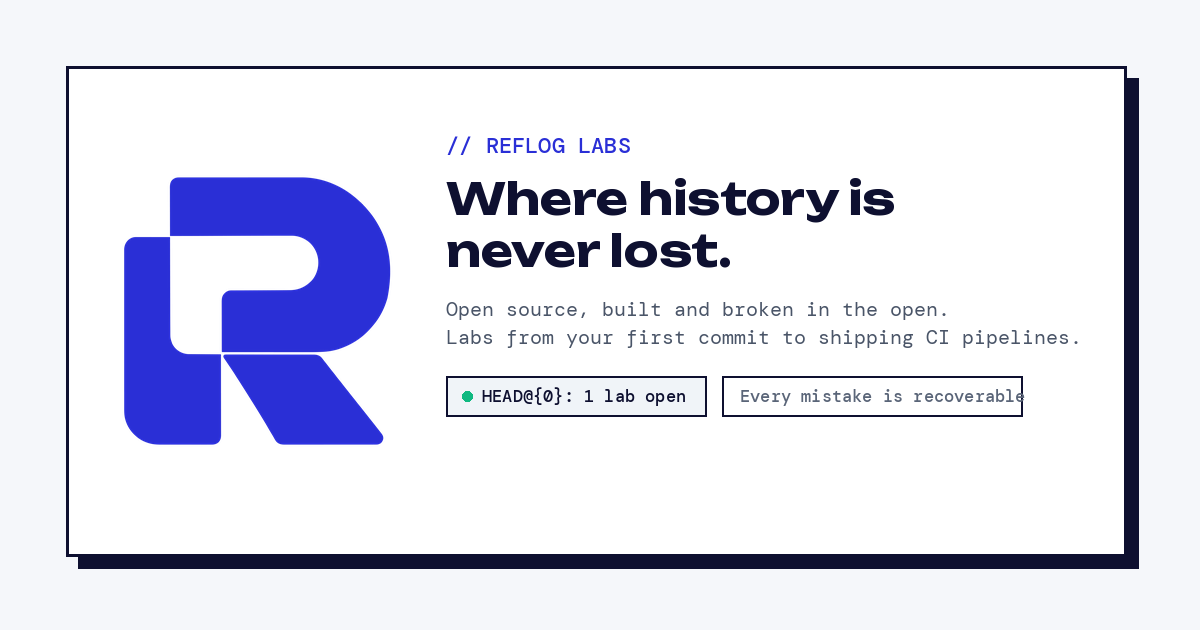
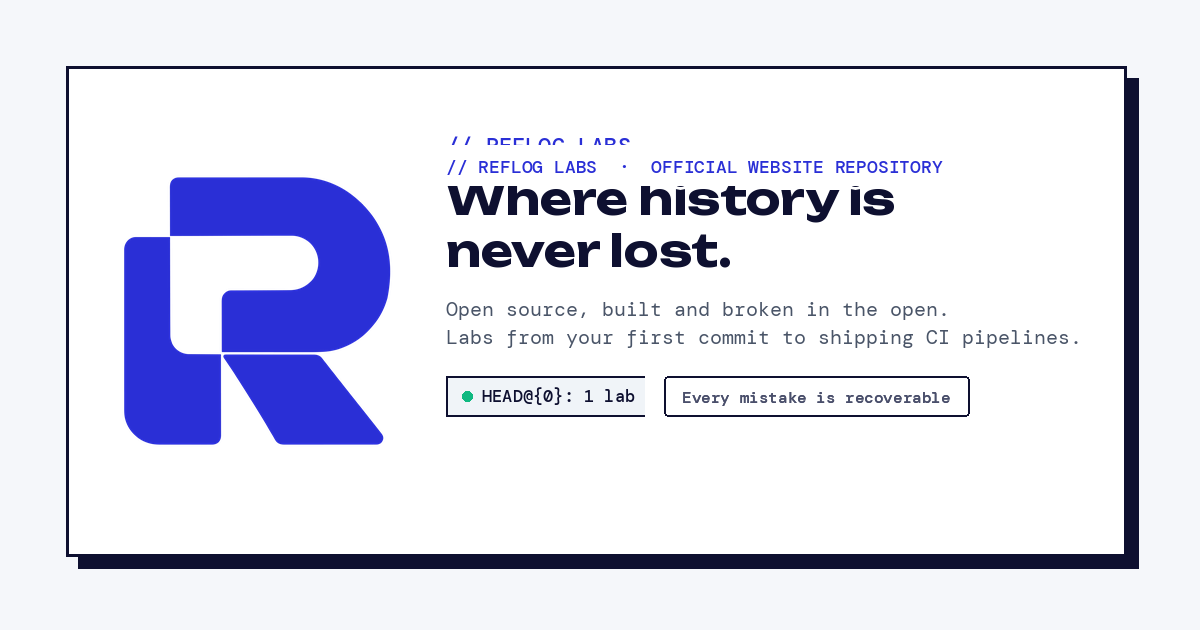
docs: remove redundant top title, fix og pill padding and label, and add rich visual interface previews

Changed region(s): [[0.5242, 0.6032, 0.8633, 0.6635], [0.5242, 0.2413, 0.8017, 0.3016], [0.37, 0.2111, 0.5242, 0.3016]]

diff --git a/README.md b/README.md
@@ -1,12 +1,25 @@
-# Reflog Labs Website
-
 <div align="center">
-  <img src="og.png" alt="Reflog Labs Platform Preview" width="100%" style="border-radius: 8px;">
+  <img src="og.png" alt="Reflog Labs Official Website Repository" width="100%">
 </div>
 
 <br>
 
-The production front-end repository powering [refloglabs.github.io](https://refloglabs.github.io), the curriculum hub for Reflog Labs.
+The production front-end repository powering [refloglabs.github.io](https://refloglabs.github.io), the interactive curriculum hub for Reflog Labs.
+
+---
+
+## Visual Preview
+
+<div align="center">
+
+<picture>
+  <source media="(prefers-color-scheme: dark)" srcset="assets/preview-hero-dark.png">
+  <img src="assets/preview-hero-light.png" alt="Reflog Labs Platform Interface" width="100%">
+</picture>
+
+</div>
+
+<br>
 
 ---
 
@@ -36,6 +49,22 @@ Reflog Labs teaches Git mechanics and production engineering workflows through s
 
 ---
 
+## Interactive Curriculum and Terminal Experience
+
+<div align="center">
+  <img src="assets/preview-curriculum.png" alt="Dynamic Curriculum Cards" width="100%">
+</div>
+
+<br>
+
+<div align="center">
+  <img src="assets/preview-terminal.png" alt="Interactive Recovery Terminal" width="100%">
+</div>
+
+<br>
+
+---
+
 ## Design System Tokens
 
 | Semantic Token | Light Mode | Dark Mode | Usage |
@@ -58,7 +87,11 @@ refloglabs.github.io/
 |   \-- workflows/
 |       \-- deploy.yml       # Production GitHub Pages deployment pipeline
 |-- assets/
-|   \-- logo.svg             # Canonical vector brand mark
+|   |-- logo.svg             # Canonical vector brand mark
+|   |-- preview-hero-dark.png
+|   |-- preview-hero-light.png
+|   |-- preview-curriculum.png
+|   \-- preview-terminal.png
 |-- .gitignore               # Local artifacts and editor exclusion rules
 |-- .nojekyll                # Bypasses Jekyll processing on GitHub Pages
 |-- index.html               # Main application entry point
@@ -96,15 +129,6 @@ The client-side API engine supports deterministic test query parameters, enablin
 | `?mock=01,02,04` | Selective unlock | Cards 01, 02, and 04 unlock dynamically; others remain locked. |
 | `?mock=all` | Complete catalog | Unlocks all curriculum cards across all tracks. |
 | `?mock=offline` | Network partition | Simulates HTTP failure; displays non-blocking warning notification. |
-
-### Headless Contract Verification
-
-Automated DOM assertions can be executed in headless environments using Node.js and JSDOM:
-
-```bash
-# Verify script evaluation and query parameter state changes
-node test_mock_params.js
-```
 
 ---
 
